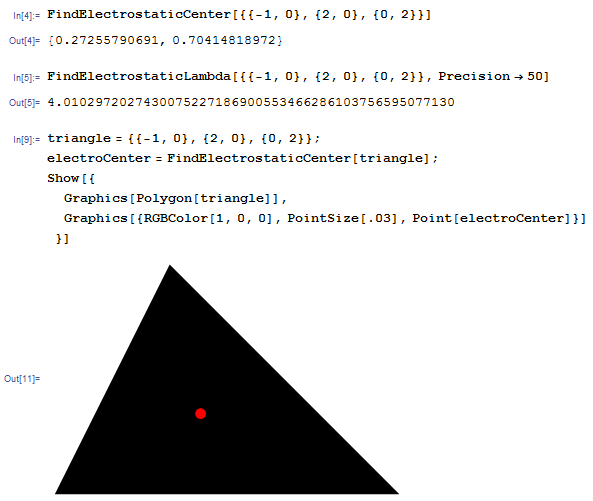
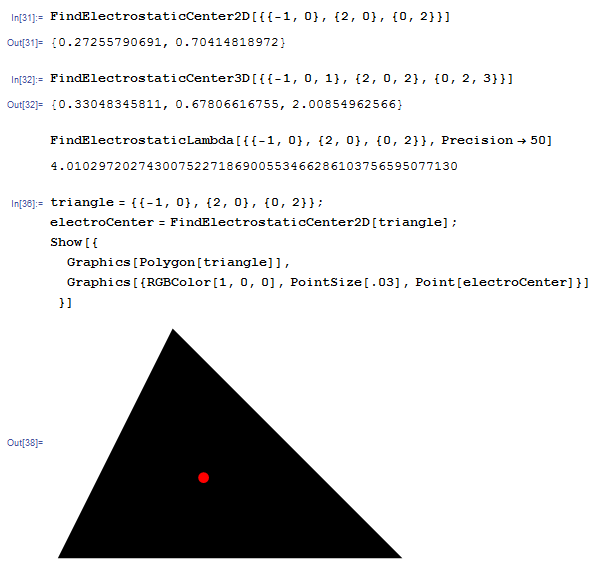
function variants names changed to 2D, 3D

diff --git a/src/electrostaticCenter.c b/src/electrostaticCenter.c
@@ -8,17 +8,17 @@
 #include <math.h>
 #include "electrostaticCenter.h"
 
-inline double sqr(double x)
-{
-    return x*x;
-}
-
 // enforce C names decoration
 #ifdef __cplusplus
 extern "C" {
 #endif // __cplusplus
 
-int electrostaticLambdaApprox(double a, double b, double c, double *lambda)
+inline double sqr(double x)
+{
+    return x*x;
+}
+
+inline int electrostaticLambdaApprox(double a, double b, double c, double *lambda)
 {
     *lambda = 3*log(a+b+c) - log(-a+b+c) - log(a-b+c) - log(a+b-c) + 3*log((2+sqrt(3))/3);
 
@@ -60,7 +60,7 @@ int electrostaticCenterUVW(double a, double b, double c, double *u, double *v, d
 // using numerically robust approximation based on the article
 // "From electrostatic potentials to yet another triangle center", by Hrvoje Abraham & Vjekoslav Kovac, 2013.
 // http://arxiv.org/abs/1312.3176
-int electrostaticCenterXY(double ax, double ay, double bx, double by, double cx, double cy, double *x, double *y)
+int electrostaticCenter2D(double ax, double ay, double bx, double by, double cx, double cy, double *x, double *y)
 {
     double a, b, c;
     double u, v, w;
@@ -95,7 +95,7 @@ int electrostaticCenterXY(double ax, double ay, double bx, double by, double cx,
 }
 
 // 3D case
-int electrostaticCenterXYZ(double ax, double ay, double az, double bx, double by, double bz, double cx, double cy, double cz, double *x, double *y, double *z)
+int electrostaticCenter3D(double ax, double ay, double az, double bx, double by, double bz, double cx, double cy, double cz, double *x, double *y, double *z)
 {
     double tx, ty, tz;
     double nx, ny, nz;
@@ -120,7 +120,7 @@ int electrostaticCenterXYZ(double ax, double ay, double az, double bx, double by
     if (!isnormal(c) || (x0!=0 && !isnormal(x0)) || !isnormal(y0))
         return -7;
 
-    int statusXY = electrostaticCenterXY(0, 0, c, 0, x0, y0, &ect, &ecn);
+    int statusXY = electrostaticCenter2D(0, 0, c, 0, x0, y0, &ect, &ecn);
 
     if (statusXY < 0)
         return statusXY;

diff --git a/src/electrostaticCenter.py b/src/electrostaticCenter.py
@@ -10,9 +10,17 @@ from math import log, exp, sqrt
 def sqr(x):
     return x*x
 
+def electrostaticLambdaApprox(a, b, c):
+    try:
+        l = 3*log(a+b+c) - log(-a+b+c) - log(a-b+c) - log(a+b-c) + 3*log((2+sqrt(3))/3)
+        return l
+    except:
+        raise NameError('electrostaticLambdaApprox error')
+
 def electrostaticCenterUVW(a, b, c):
     try:
-        k = 2 * (3*log(a+b+c) - log(-a+b+c) - log(a-b+c) - log(a+b-c) + 3*log((2+sqrt(3))/3)) / (a+b+c);
+        l = electrostaticLambdaApprox(a, b, c)
+        k = 2*l / (a+b+c)
 
         ea = exp(k*a) - 1
         eb = exp(k*b) - 1
@@ -30,7 +38,7 @@ def electrostaticCenterUVW(a, b, c):
 # using numerically robust approximation based on the article
 # "From electrostatic potentials to yet another triangle center", by Hrvoje Abraham & Vjekoslav Kovac, 2013.
 # http://arxiv.org/abs/1312.3176
-def electrostaticCenterXY(triangle2D):
+def electrostaticCenter2D(triangle2D):
     try:
         [[xa, ya], [xb, yb], [xc, yc]] = triangle2D
 
@@ -49,10 +57,10 @@ def electrostaticCenterXY(triangle2D):
 
         return [x, y]
     except:
-        raise NameError('electrostaticCenterXY error')
+        raise NameError('electrostaticCenter2D error')
 
 # 3D case
-def electrostaticCenterXYZ(triangle3D):
+def electrostaticCenter3D(triangle3D):
     try:
         [[ax, ay, az], [bx, by, bz], [cx, cy, cz]] = triangle3D
 
@@ -76,7 +84,7 @@ def electrostaticCenterXYZ(triangle3D):
         ny *= ry0
         nz *= ry0
 
-        [ect, ecn] = electrostaticCenterXY([[0, 0], [c, 0], [x0, y0]])
+        [ect, ecn] = electrostaticCenter2D([[0, 0], [c, 0], [x0, y0]])
 
         x = ax + ect*tx + ecn*nx
         y = ay + ect*ty + ecn*ny
@@ -84,4 +92,4 @@ def electrostaticCenterXYZ(triangle3D):
 
         return [x, y, z]
     except:
-        raise NameError('electrostaticCenterXYZ error')
+        raise NameError('electrostaticCenter3D error')

diff --git a/src/electrostaticCenter.h b/src/electrostaticCenter.h
@@ -17,10 +17,10 @@ extern "C" {
 // using numerically robust approximation based on the article
 // "From electrostatic potentials to yet another triangle center", by Hrvoje Abraham & Vjekoslav Kovac, 2013.
 // http://arxiv.org/abs/1312.3176
-int electrostaticCenterXY(double ax, double ay, double bx, double by, double cx, double cy, double *x, double *y);
+int electrostaticCenter2D(double ax, double ay, double bx, double by, double cx, double cy, double *x, double *y);
 
 // 3D case
-int electrostaticCenterXYZ(double ax, double ay, double az, double bx, double by, double bz, double cx, double cy, double cz, double *x, double *y, double *z);
+int electrostaticCenter3D(double ax, double ay, double az, double bx, double by, double bz, double cx, double cy, double cz, double *x, double *y, double *z);
 
 #ifdef __cplusplus
 } // extern "C"
